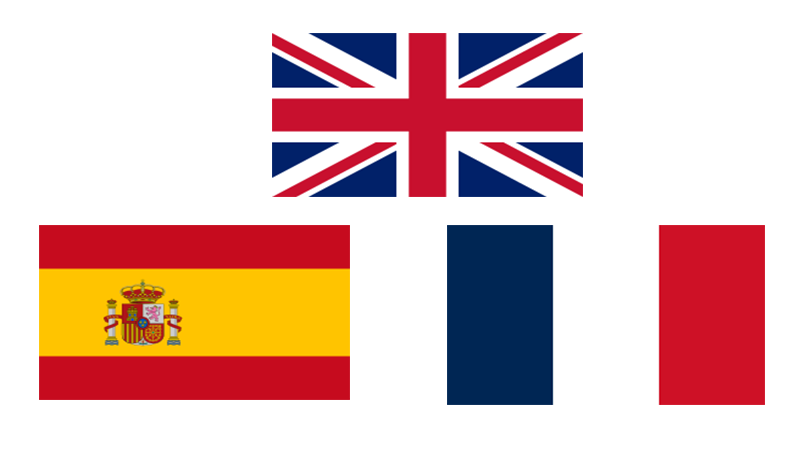
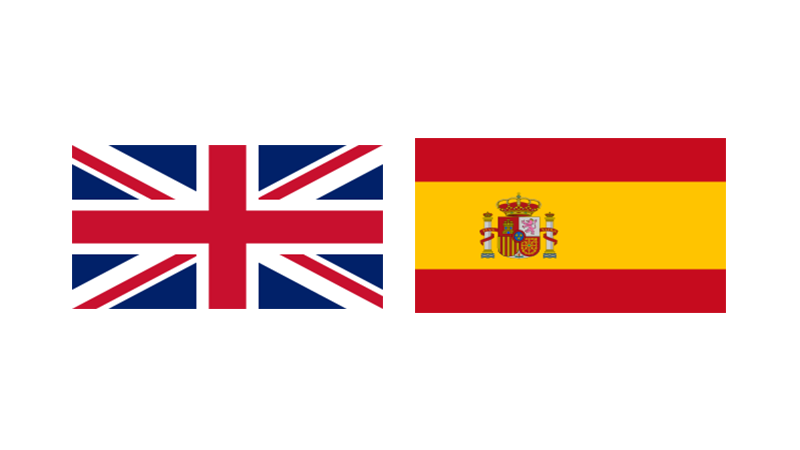
Contato

diff --git a/index.html b/index.html
@@ -42,6 +42,9 @@
           <li class="nav-item">
                 <a class="nav-link" href="#portfolio_redirect">Portfólio</a>
           </li>
+          <li class="nav-item">
+            <a class="nav-link" href="#contato_redirect">Contato</a>
+          </li>
             </ul>
           </div>
         </div>
@@ -55,8 +58,8 @@
 <p class="txt_entrada">Abaixo estão algumas das minhas informações.</p>
 </div>
 
-<div id="info_redirect" style="height: 5px;"></div><br>
 <!-- SESSÃO DE INFORMAÇÕES PESSOAIS -->
+<div id="info_redirect" style="height: 5px;"></div><br>
 <div class="container" id="info">
   <h3 class="titulos_sessoes"><span style="color: #198f89;">✱</span> Sessão 1 - Informações Pessoais <span style="color: #198f89;">✱</span></h3><br>
   <div class="row">
@@ -94,8 +97,8 @@
   <!-- -->
 </div><br><br>
 
-<div id="formacao_redirect" style="height: 5px;"></div><br>
 <!-- SESSÃO DE FORMAÇÃO ACADÊMICA E PROFISSIONAL -->
+<div id="formacao_redirect" style="height: 5px;"></div><br>
 <div class="container" id="formacao">
 <h3 class="titulos_sessoes"><span style="color: #198f89;">✱</span> Sessão 2 - Formação <span style="color: #198f89;">✱</span></h3><br>
   <div class="row">
@@ -143,8 +146,8 @@
   <!-- -->
 </div><br><br>
 
-<div id="competencias_redirect" style="height: 5px;"></div><br>
 <!-- SESSÃO DE COMPETÊNCIAS -->
+<div id="competencias_redirect" style="height: 5px;"></div><br>
 <div class="container" id="competencias">
 
 <h3 class="titulos_sessoes"><span style="color: #198f89;">✱</span> Sessão 3 - Competências <span style="color: #198f89;">✱</span></h3><br>
@@ -171,11 +174,10 @@
     <div class="col-sm-6" id="info_idiomas">
     <h4 class="titulos" >Idiomas</h4><br>
    
-   <img class="imgs" id="img_idiomas" src="assets/img/img_idiomas.png" style="border-radius: 10%; display: none; padding-bottom: 20px;">
+   <img class="imgs" id="img_idiomas" src="assets/img/img_idiomas.png" style="border-radius: 10%; display: none; padding-bottom: 10px;">
     <ul id="txt_idiomas" style="list-style: none; display: none;">
     <li><span style="color: #4ca9c8;"><b>Língua Inglesa:</b></span> Nível intermediário;</li>
-    <li><span style="color: red;"><b>Língua Espanhola:</b></span> Nível iniciante;</li>
-    <li><span style="color: darkblue;"><b>Língua Francesa:</b></span> Nível iniciante.</li>
+    <li><span style="color: red;"><b>Língua Espanhola:</b></span> Nível básico;</li>
     </ul>
 
    <button style="background-color: #198f89; display:none;" id="bttn_descIdiomas_esconder" class="btn btn-primary">Voltar</button>
@@ -231,8 +233,39 @@
     <span class="carousel-control-next-icon"></span>
   </button>
 <!-- -->
+</div><br>
+<div class="container" id="links_sites">
+<div class="row">
+<div class="col-sm-12">
+<p id="txt_contato">➤ Esses são os sites finalizados e hospedados:</p>
+<div class="d-flex">
+  <ul class="list-inline mx-auto justify-content-center">
+    <li class="list-inline-item"><svg style="padding-right: 5px;" xmlns="http://www.w3.org/2000/svg" width="32" height="32" fill="#0069b3" class="bi bi-globe2" viewBox="0 0 16 16"><path d="M0 8a8 8 0 1 1 16 0A8 8 0 0 1 0 8zm7.5-6.923c-.67.204-1.335.82-1.887 1.855-.143.268-.276.56-.395.872.705.157 1.472.257 2.282.287V1.077zM4.249 3.539c.142-.384.304-.744.481-1.078a6.7 6.7 0 0 1 .597-.933A7.01 7.01 0 0 0 3.051 3.05c.362.184.763.349 1.198.49zM3.509 7.5c.036-1.07.188-2.087.436-3.008a9.124 9.124 0 0 1-1.565-.667A6.964 6.964 0 0 0 1.018 7.5h2.49zm1.4-2.741a12.344 12.344 0 0 0-.4 2.741H7.5V5.091c-.91-.03-1.783-.145-2.591-.332zM8.5 5.09V7.5h2.99a12.342 12.342 0 0 0-.399-2.741c-.808.187-1.681.301-2.591.332zM4.51 8.5c.035.987.176 1.914.399 2.741A13.612 13.612 0 0 1 7.5 10.91V8.5H4.51zm3.99 0v2.409c.91.03 1.783.145 2.591.332.223-.827.364-1.754.4-2.741H8.5zm-3.282 3.696c.12.312.252.604.395.872.552 1.035 1.218 1.65 1.887 1.855V11.91c-.81.03-1.577.13-2.282.287zm.11 2.276a6.696 6.696 0 0 1-.598-.933 8.853 8.853 0 0 1-.481-1.079 8.38 8.38 0 0 0-1.198.49 7.01 7.01 0 0 0 2.276 1.522zm-1.383-2.964A13.36 13.36 0 0 1 3.508 8.5h-2.49a6.963 6.963 0 0 0 1.362 3.675c.47-.258.995-.482 1.565-.667zm6.728 2.964a7.009 7.009 0 0 0 2.275-1.521 8.376 8.376 0 0 0-1.197-.49 8.853 8.853 0 0 1-.481 1.078 6.688 6.688 0 0 1-.597.933zM8.5 11.909v3.014c.67-.204 1.335-.82 1.887-1.855.143-.268.276-.56.395-.872A12.63 12.63 0 0 0 8.5 11.91zm3.555-.401c.57.185 1.095.409 1.565.667A6.963 6.963 0 0 0 14.982 8.5h-2.49a13.36 13.36 0 0 1-.437 3.008zM14.982 7.5a6.963 6.963 0 0 0-1.362-3.675c-.47.258-.995.482-1.565.667.248.92.4 1.938.437 3.008h2.49zM11.27 2.461c.177.334.339.694.482 1.078a8.368 8.368 0 0 0 1.196-.49 7.01 7.01 0 0 0-2.275-1.52c.218.283.418.597.597.932zm-.488 1.343a7.765 7.765 0 0 0-.395-.872C9.835 1.897 9.17 1.282 8.5 1.077V4.09c.81-.03 1.577-.13 2.282-.287z"/></svg><a style="text-decoration: none; color: #136eae;" href="https://projetos.talentosdoifsp.gru.br/trlsites/" target="_blank">TRL Sites</a></li><br>
+    <li class="list-inline-item"><svg style="padding-right: 5px;" xmlns="http://www.w3.org/2000/svg" width="32" height="32" fill="rgb(173, 2, 173)" class="bi bi-globe2" viewBox="0 0 16 16"><path d="M0 8a8 8 0 1 1 16 0A8 8 0 0 1 0 8zm7.5-6.923c-.67.204-1.335.82-1.887 1.855-.143.268-.276.56-.395.872.705.157 1.472.257 2.282.287V1.077zM4.249 3.539c.142-.384.304-.744.481-1.078a6.7 6.7 0 0 1 .597-.933A7.01 7.01 0 0 0 3.051 3.05c.362.184.763.349 1.198.49zM3.509 7.5c.036-1.07.188-2.087.436-3.008a9.124 9.124 0 0 1-1.565-.667A6.964 6.964 0 0 0 1.018 7.5h2.49zm1.4-2.741a12.344 12.344 0 0 0-.4 2.741H7.5V5.091c-.91-.03-1.783-.145-2.591-.332zM8.5 5.09V7.5h2.99a12.342 12.342 0 0 0-.399-2.741c-.808.187-1.681.301-2.591.332zM4.51 8.5c.035.987.176 1.914.399 2.741A13.612 13.612 0 0 1 7.5 10.91V8.5H4.51zm3.99 0v2.409c.91.03 1.783.145 2.591.332.223-.827.364-1.754.4-2.741H8.5zm-3.282 3.696c.12.312.252.604.395.872.552 1.035 1.218 1.65 1.887 1.855V11.91c-.81.03-1.577.13-2.282.287zm.11 2.276a6.696 6.696 0 0 1-.598-.933 8.853 8.853 0 0 1-.481-1.079 8.38 8.38 0 0 0-1.198.49 7.01 7.01 0 0 0 2.276 1.522zm-1.383-2.964A13.36 13.36 0 0 1 3.508 8.5h-2.49a6.963 6.963 0 0 0 1.362 3.675c.47-.258.995-.482 1.565-.667zm6.728 2.964a7.009 7.009 0 0 0 2.275-1.521 8.376 8.376 0 0 0-1.197-.49 8.853 8.853 0 0 1-.481 1.078 6.688 6.688 0 0 1-.597.933zM8.5 11.909v3.014c.67-.204 1.335-.82 1.887-1.855.143-.268.276-.56.395-.872A12.63 12.63 0 0 0 8.5 11.91zm3.555-.401c.57.185 1.095.409 1.565.667A6.963 6.963 0 0 0 14.982 8.5h-2.49a13.36 13.36 0 0 1-.437 3.008zM14.982 7.5a6.963 6.963 0 0 0-1.362-3.675c-.47.258-.995.482-1.565.667.248.92.4 1.938.437 3.008h2.49zM11.27 2.461c.177.334.339.694.482 1.078a8.368 8.368 0 0 0 1.196-.49 7.01 7.01 0 0 0-2.275-1.52c.218.283.418.597.597.932zm-.488 1.343a7.765 7.765 0 0 0-.395-.872C9.835 1.897 9.17 1.282 8.5 1.077V4.09c.81-.03 1.577-.13 2.282-.287z"/></svg><a style="text-decoration: none; color: rgba(181,32,181,1);" href="https://hostdeprojetosdoifsp.gru.br/qcestetic/" target="_blank">QC Estética</a></li><br>
+  </ul>
 </div>
-<br><br><br>
+</div>
+</div>
+</div>
+
+<!-- SESSÃO DE CONTATO  -->
+<div id="contato_redirect" style="height: 80px;"></div>
+<div class="container" id="contato">
+<div class="row">
+<div class="col-sm-12">
+<h3 id="titulo_contato">Contato</h3><br>
+<p id="txt_contato">Abaixo, estão os meios em que posso ser contactado:</p>
+  <div class="d-flex">
+    <ul class="list-inline mx-auto justify-content-center">
+      <li class="list-inline-item"><svg style="padding-right: 5px;" xmlns="http://www.w3.org/2000/svg" width="32" height="32" fill="rgb(15, 15, 179)" class="bi bi-linkedin" viewBox="0 0 16 16"><path d="M0 1.146C0 .513.526 0 1.175 0h13.65C15.474 0 16 .513 16 1.146v13.708c0 .633-.526 1.146-1.175 1.146H1.175C.526 16 0 15.487 0 14.854V1.146zm4.943 12.248V6.169H2.542v7.225h2.401zm-1.2-8.212c.837 0 1.358-.554 1.358-1.248-.015-.709-.52-1.248-1.342-1.248-.822 0-1.359.54-1.359 1.248 0 .694.521 1.248 1.327 1.248h.016zm4.908 8.212V9.359c0-.216.016-.432.08-.586.173-.431.568-.878 1.232-.878.869 0 1.216.662 1.216 1.634v3.865h2.401V9.25c0-2.22-1.184-3.252-2.764-3.252-1.274 0-1.845.7-2.165 1.193v.025h-.016a5.54 5.54 0 0 1 .016-.025V6.169h-2.4c.03.678 0 7.225 0 7.225h2.4z"/></svg><a style="text-decoration: none;" href="https://www.linkedin.com/in/renan-dos-santos-b4a15225b/" target="_blank">Linkedin - Renan dos Santos</a></li><br>
+      <li class="list-inline-item"><svg style="padding-right: 5px;" xmlns="http://www.w3.org/2000/svg" width="32" height="32" fill="currentColor" class="bi bi-envelope-at-fill" viewBox="0 0 16 16"><path d="M2 2A2 2 0 0 0 .05 3.555L8 8.414l7.95-4.859A2 2 0 0 0 14 2H2Zm-2 9.8V4.698l5.803 3.546L0 11.801Zm6.761-2.97-6.57 4.026A2 2 0 0 0 2 14h6.256A4.493 4.493 0 0 1 8 12.5a4.49 4.49 0 0 1 1.606-3.446l-.367-.225L8 9.586l-1.239-.757ZM16 9.671V4.697l-5.803 3.546.338.208A4.482 4.482 0 0 1 12.5 8c1.414 0 2.675.652 3.5 1.671Z"/><path d="M15.834 12.244c0 1.168-.577 2.025-1.587 2.025-.503 0-1.002-.228-1.12-.648h-.043c-.118.416-.543.643-1.015.643-.77 0-1.259-.542-1.259-1.434v-.529c0-.844.481-1.4 1.26-1.4.585 0 .87.333.953.63h.03v-.568h.905v2.19c0 .272.18.42.411.42.315 0 .639-.415.639-1.39v-.118c0-1.277-.95-2.326-2.484-2.326h-.04c-1.582 0-2.64 1.067-2.64 2.724v.157c0 1.867 1.237 2.654 2.57 2.654h.045c.507 0 .935-.07 1.18-.18v.731c-.219.1-.643.175-1.237.175h-.044C10.438 16 9 14.82 9 12.646v-.214C9 10.36 10.421 9 12.485 9h.035c2.12 0 3.314 1.43 3.314 3.034v.21Zm-4.04.21v.227c0 .586.227.8.581.8.31 0 .564-.17.564-.743v-.367c0-.516-.275-.708-.572-.708-.346 0-.573.245-.573.791Z"/></svg>siqueiraa42@gmail.com</li><br>
+      <li class="list-inline-item"><svg style="padding-right: 5px;" xmlns="http://www.w3.org/2000/svg" width="32" height="32" fill="green" class="bi bi-whatsapp" viewBox="0 0 16 16"><path d="M13.601 2.326A7.854 7.854 0 0 0 7.994 0C3.627 0 .068 3.558.064 7.926c0 1.399.366 2.76 1.057 3.965L0 16l4.204-1.102a7.933 7.933 0 0 0 3.79.965h.004c4.368 0 7.926-3.558 7.93-7.93A7.898 7.898 0 0 0 13.6 2.326zM7.994 14.521a6.573 6.573 0 0 1-3.356-.92l-.24-.144-2.494.654.666-2.433-.156-.251a6.56 6.56 0 0 1-1.007-3.505c0-3.626 2.957-6.584 6.591-6.584a6.56 6.56 0 0 1 4.66 1.931 6.557 6.557 0 0 1 1.928 4.66c-.004 3.639-2.961 6.592-6.592 6.592zm3.615-4.934c-.197-.099-1.17-.578-1.353-.646-.182-.065-.315-.099-.445.099-.133.197-.513.646-.627.775-.114.133-.232.148-.43.05-.197-.1-.836-.308-1.592-.985-.59-.525-.985-1.175-1.103-1.372-.114-.198-.011-.304.088-.403.087-.088.197-.232.296-.346.1-.114.133-.198.198-.33.065-.134.034-.248-.015-.347-.05-.099-.445-1.076-.612-1.47-.16-.389-.323-.335-.445-.34-.114-.007-.247-.007-.38-.007a.729.729 0 0 0-.529.247c-.182.198-.691.677-.691 1.654 0 .977.71 1.916.81 2.049.098.133 1.394 2.132 3.383 2.992.47.205.84.326 1.129.418.475.152.904.129 1.246.08.38-.058 1.171-.48 1.338-.943.164-.464.164-.86.114-.943-.049-.084-.182-.133-.38-.232z"/></svg> <a style="text-decoration: none; color: darkgreen;" href="https://api.whatsapp.com/send?phone=551196726-3940&text=sua%20mensagem" class="whatsapp" target="_blank">(11) 96726-3940</a></li><br>   
+    </ul>
+  </div>
+</div>
+</div>
+</div>
+<!-- -->
 
 <footer id="myFooter">
     <div class="container">

diff --git a/assets/css/home.css b/assets/css/home.css
@@ -218,6 +218,7 @@ transform: scale(1.1);
 transform: scale(1.1);
 }
 
+/* PORTFÓLIO - Carrossel de imagens */
 #botao_anterior {
     background-color: #595959;
     display: none;
@@ -254,7 +255,31 @@ transform: scale(1.1);
 #txt_portfolio {
     text-align: center;
     font-size: 18px;
-};
+}
+/* */
+
+/* SESSÃO 4 - Contato */
+#contato {
+    padding-bottom: 80px;
+}
+#titulo_contato {
+    display: block;
+    margin-right: auto;
+    margin-left: auto;
+    text-align: center;
+    border-bottom: inset 3px #198f89;
+    width: 20%;
+    padding-bottom: 15px;
+}
+#txt_contato {
+    text-align: center;
+    font-size: 18px;
+}
+.list-inline-item {
+    padding-bottom: 5px;
+    font-size: 18px;
+}
+/* */
 
 .img_footer {
     width: 50px;
